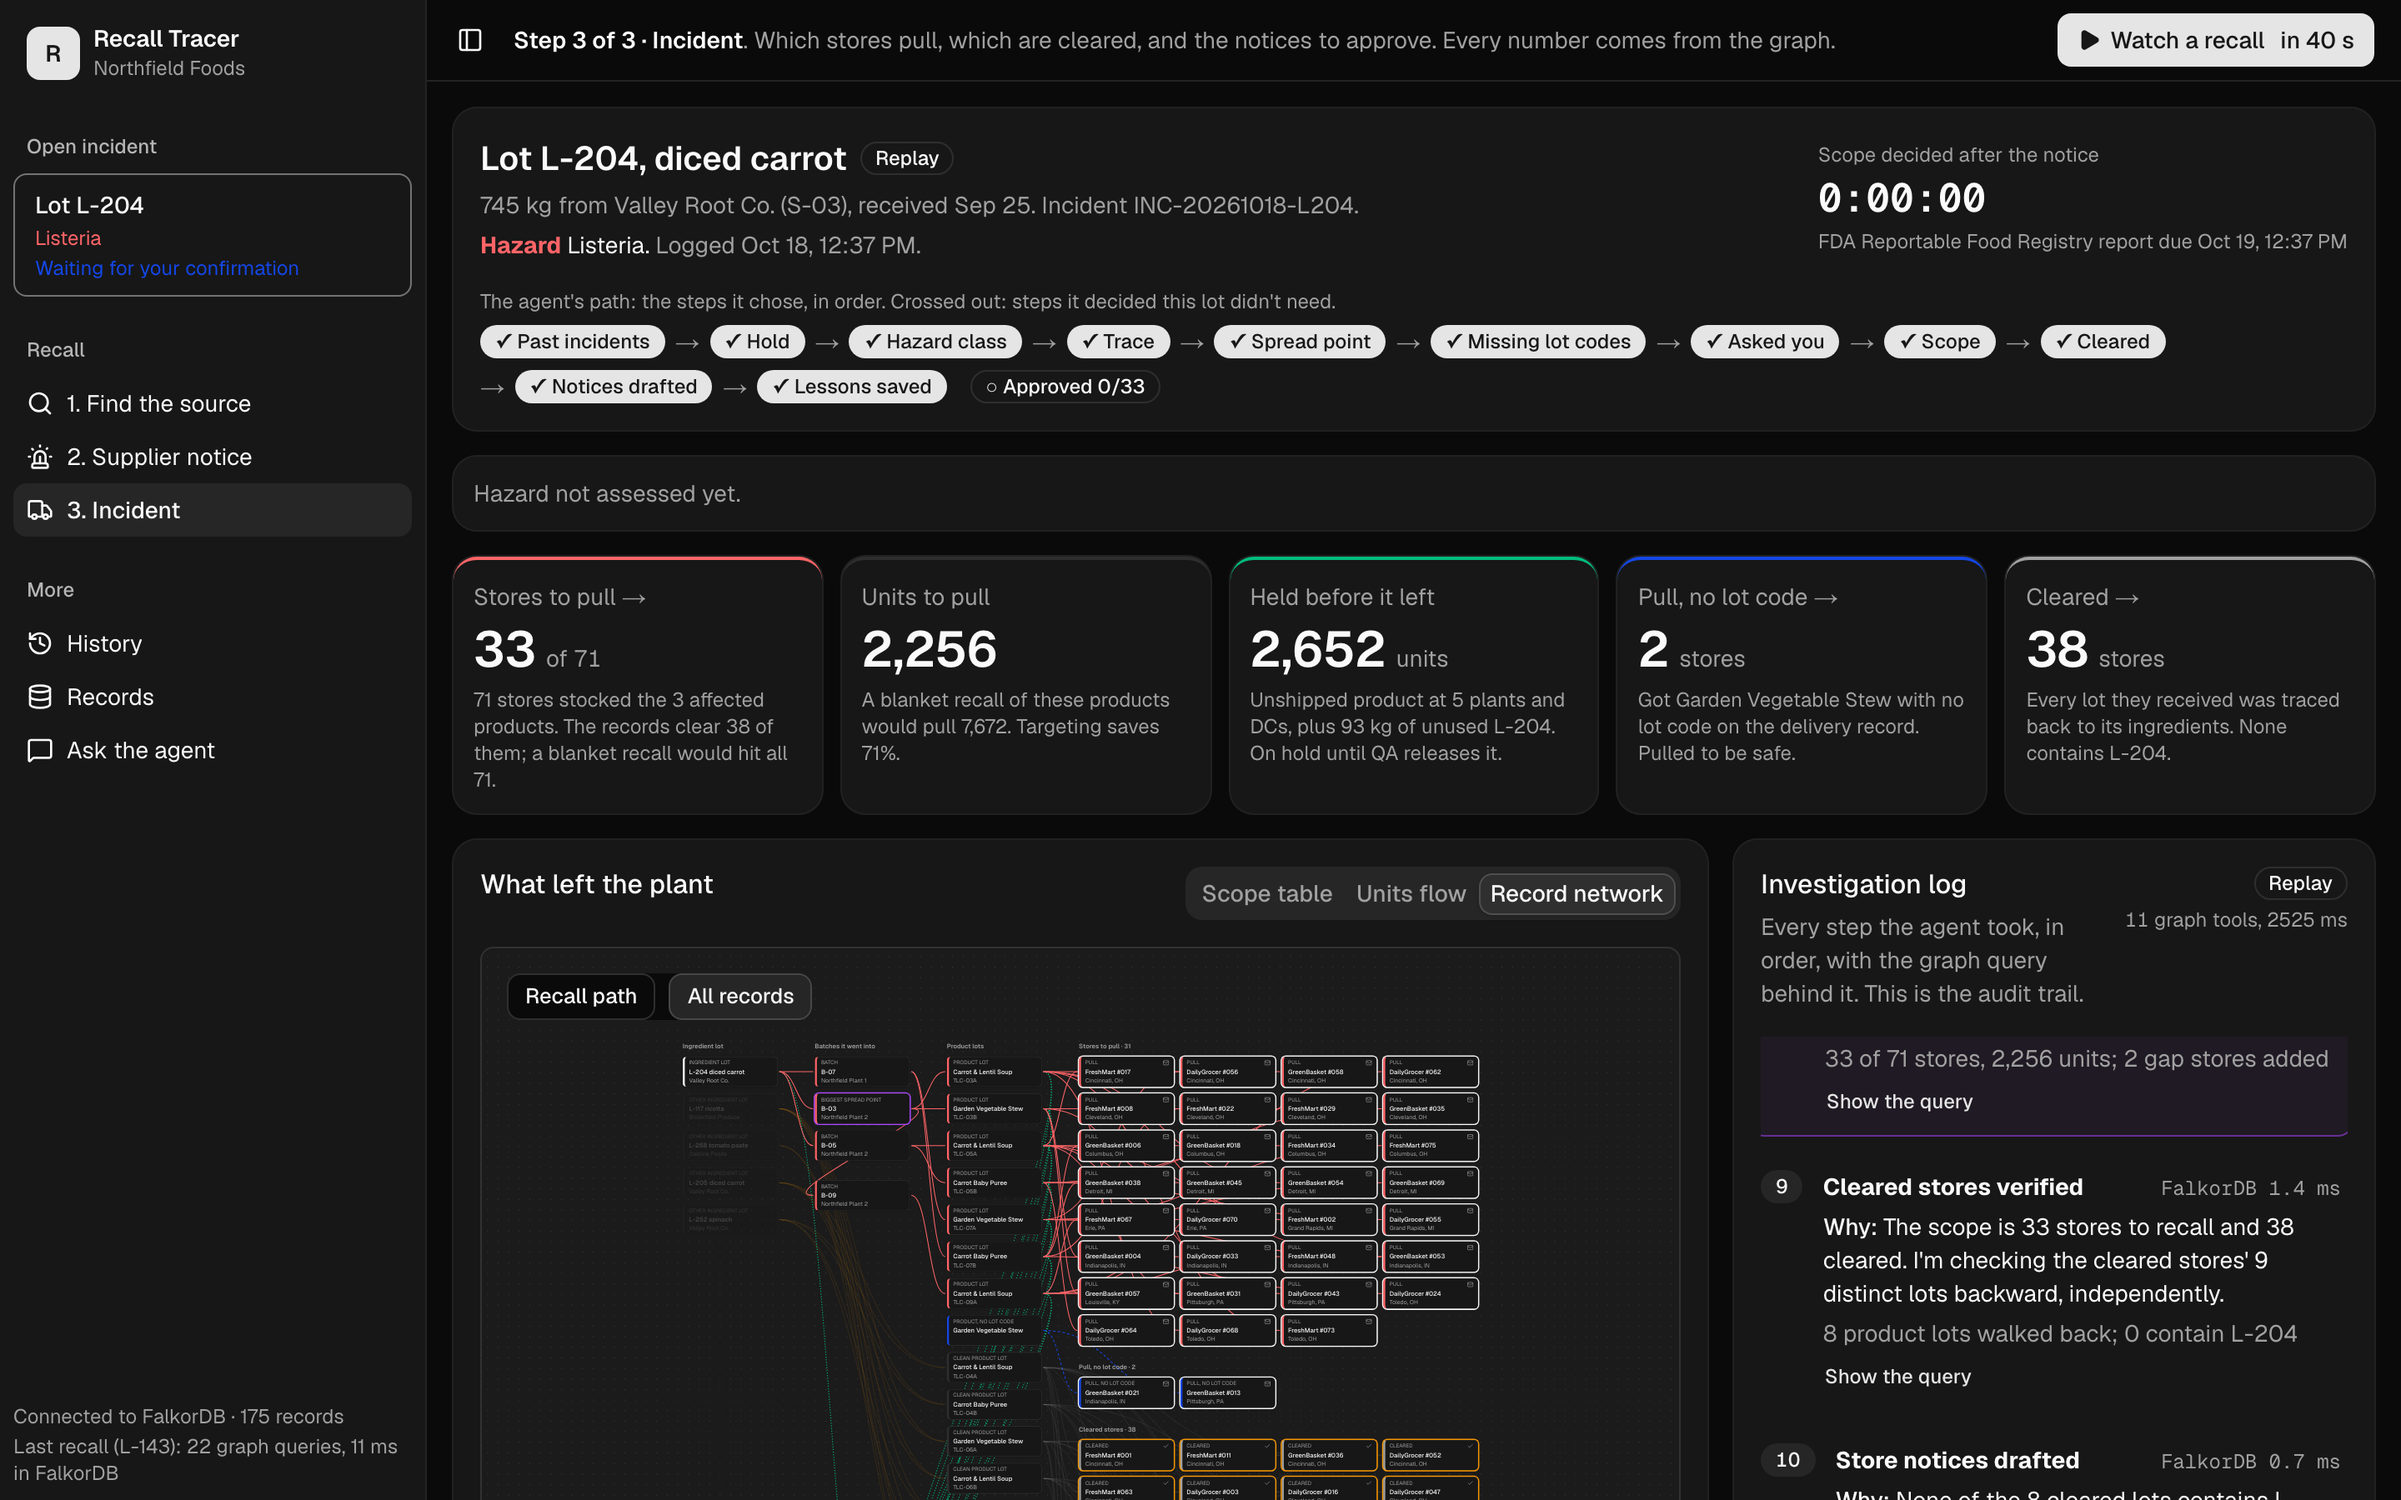
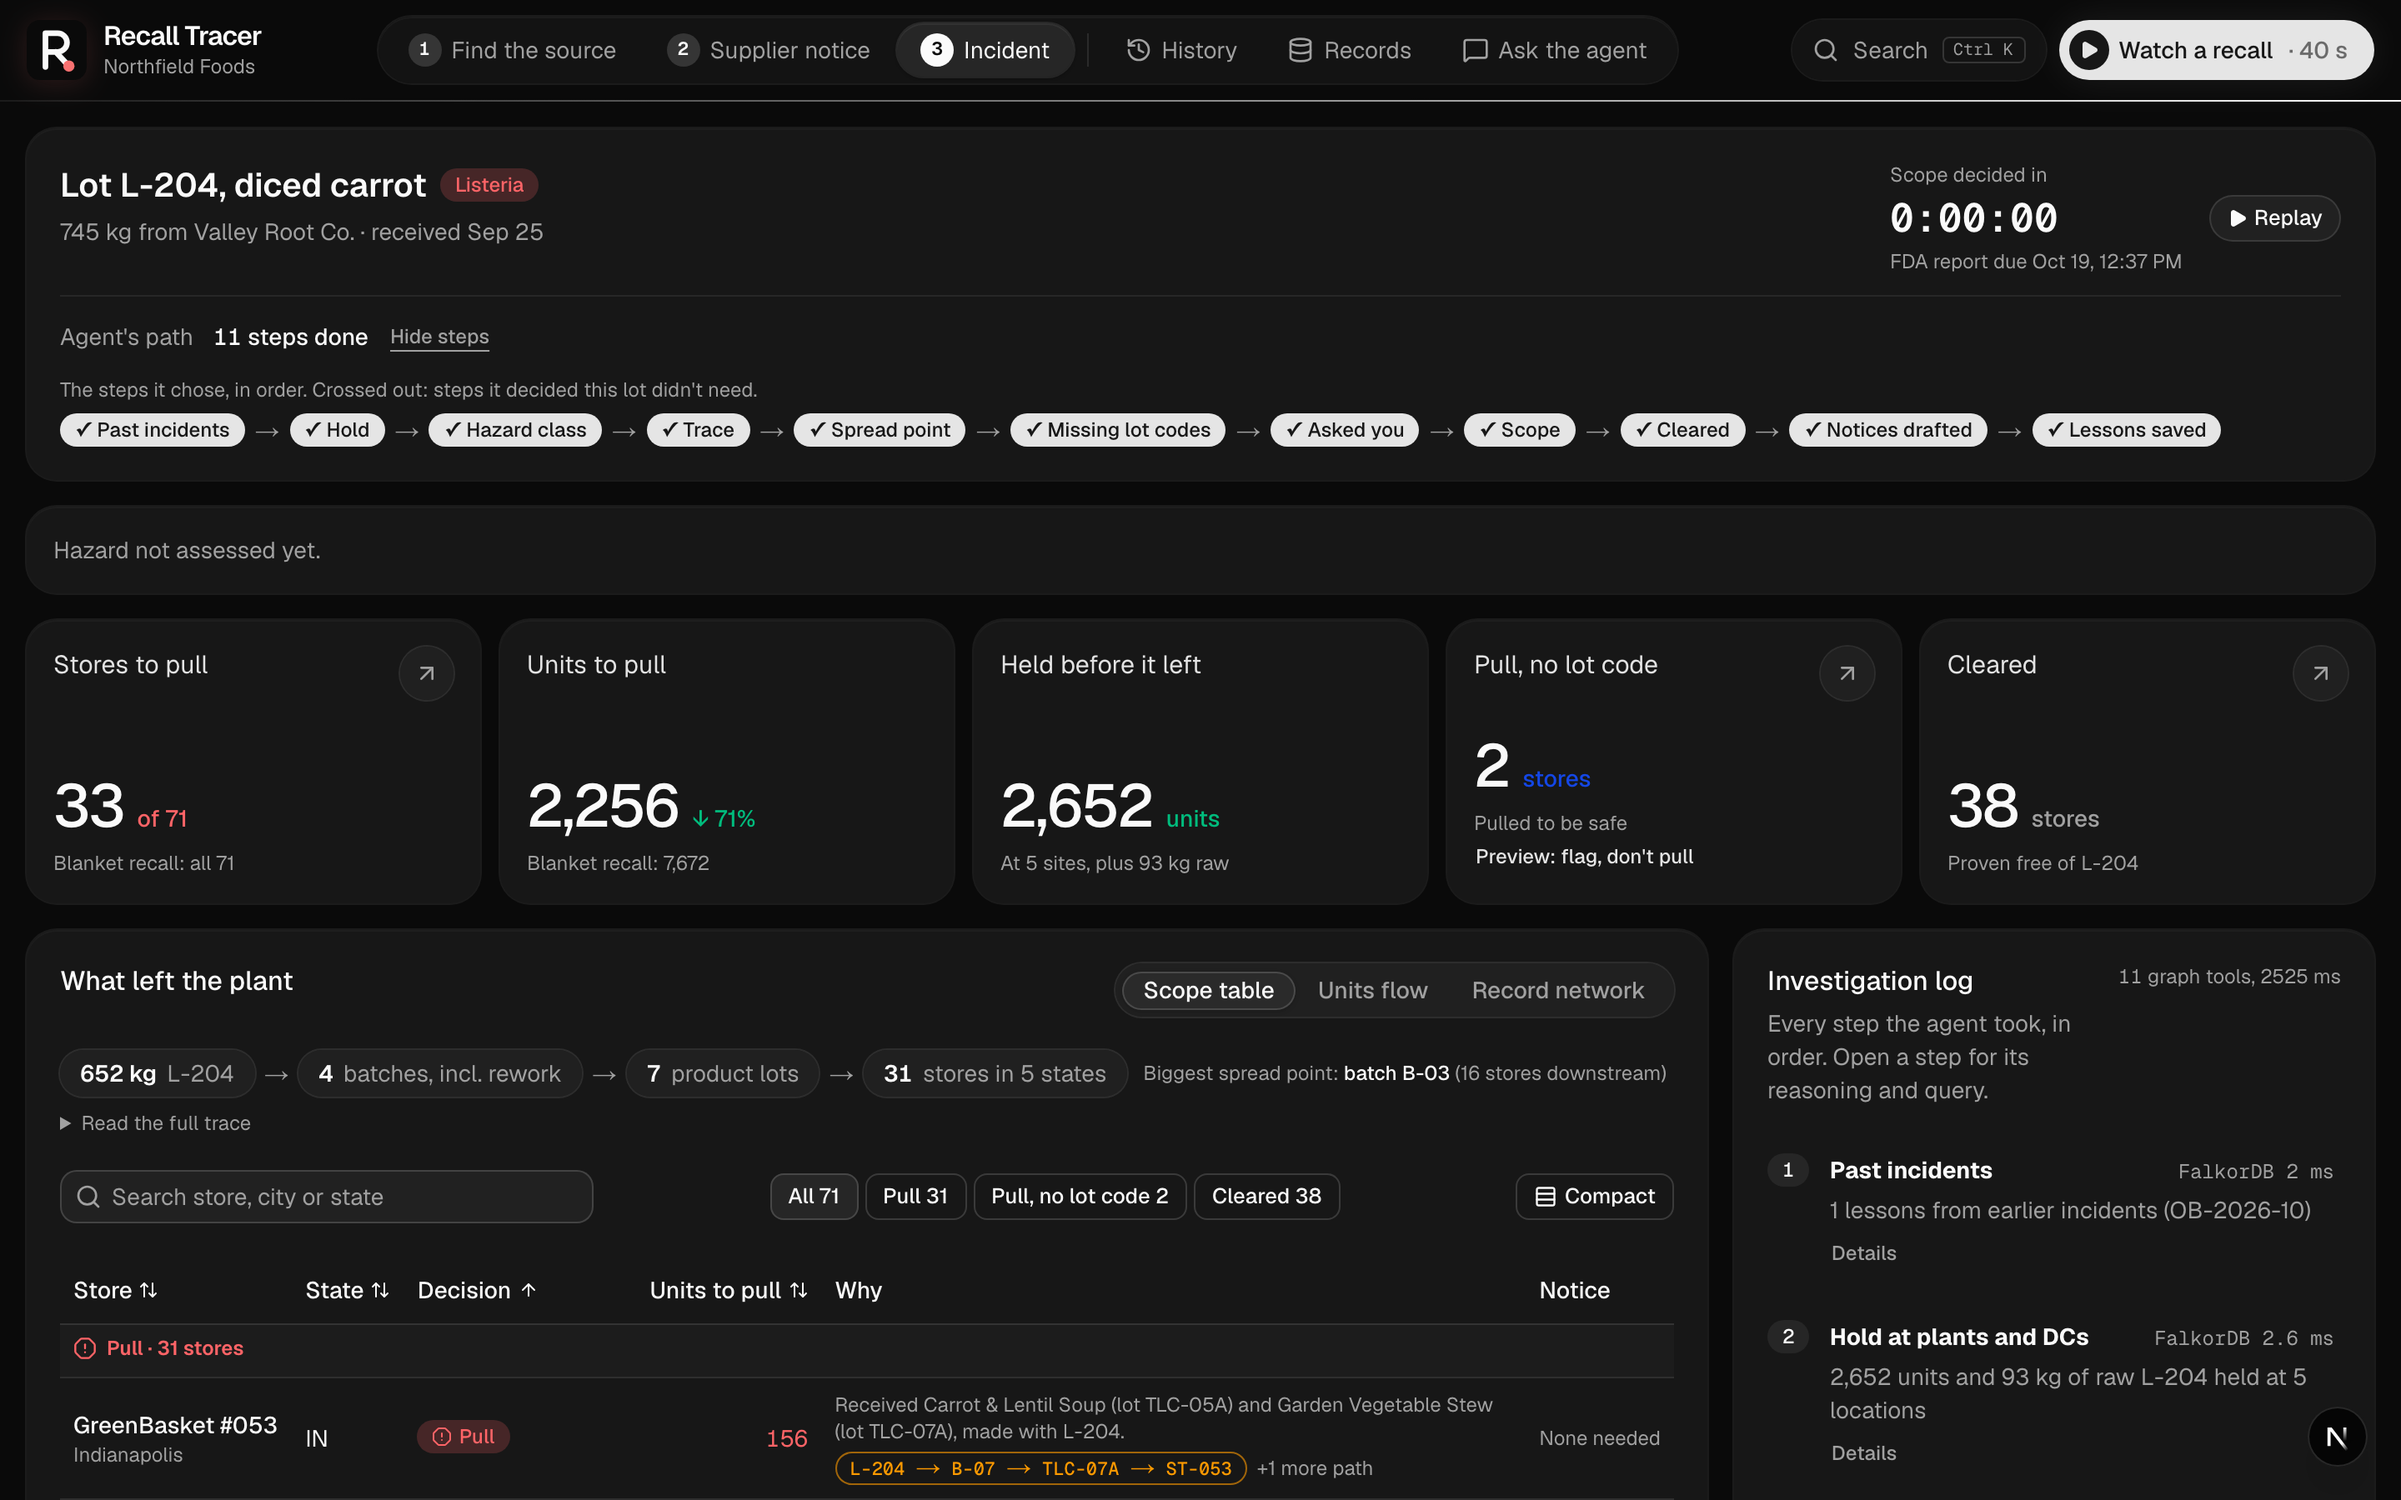
Blog: screenshots and tour text for the new top-nav UI

diff --git a/docs/blog/recall-tracer.md b/docs/blog/recall-tracer.md
@@ -159,7 +159,7 @@ Three reasons beyond the brief. Traceability is already a graph, a chain of "thi
 
 ## A tour of the app
 
-The app follows the three steps a coordinator works through: find the source (from illness reports), open the incident from the supplier's notice, then decide the scope and approve the notices. Here is the incident page after a run on L-204. The agent's path is across the top, the scope is in the cards, and the investigation log on the right shows every step with its reason and its Cypher.
+The app follows the three steps a coordinator works through: find the source (from illness reports), open the incident from the supplier's notice, then decide the scope and approve the notices. Here is the incident page after a run on L-204. The agent's path is across the top, the scope is in the cards, and the investigation log on the right lists every step; open one for its reason and its Cypher.
 
 ![The finished incident: 33 of 71 stores, units saved, the hold, and the stores with missing lot codes](04-incident-done.png)
 
@@ -171,7 +171,7 @@ The real-records page asks the same questions of the public CDC and openFDA data
 
 ![Real records: the Clover Hill Dairy outbreak as a graph, with Illinois flagged as a gap](07-real-records.png)
 
-Two more things on the incident page. "Replay the trace" plays the recorded run back with the original timing, at 0.5×, 1× or 2×, and the record network shows only what the agent had reached at the playhead. Below the log, the Agent memory panel shows what the agent read from earlier incidents and what it saved for the next one, as the Memory nodes in the graph.
+Two more things on the incident page. Replay plays the recorded run back with the original timing, at 0.5×, 1× or 2×, and the record network shows only what the agent had reached at the playhead. Below the log, the Agent memory panel shows what the agent read from earlier incidents and what it saved for the next one, as the Memory nodes in the graph.
 
 There's also an outbreak page that walks illness cases back to a shared lot, and a chat over the same tools that shows Approve and Deny buttons before it drafts notices.
 
